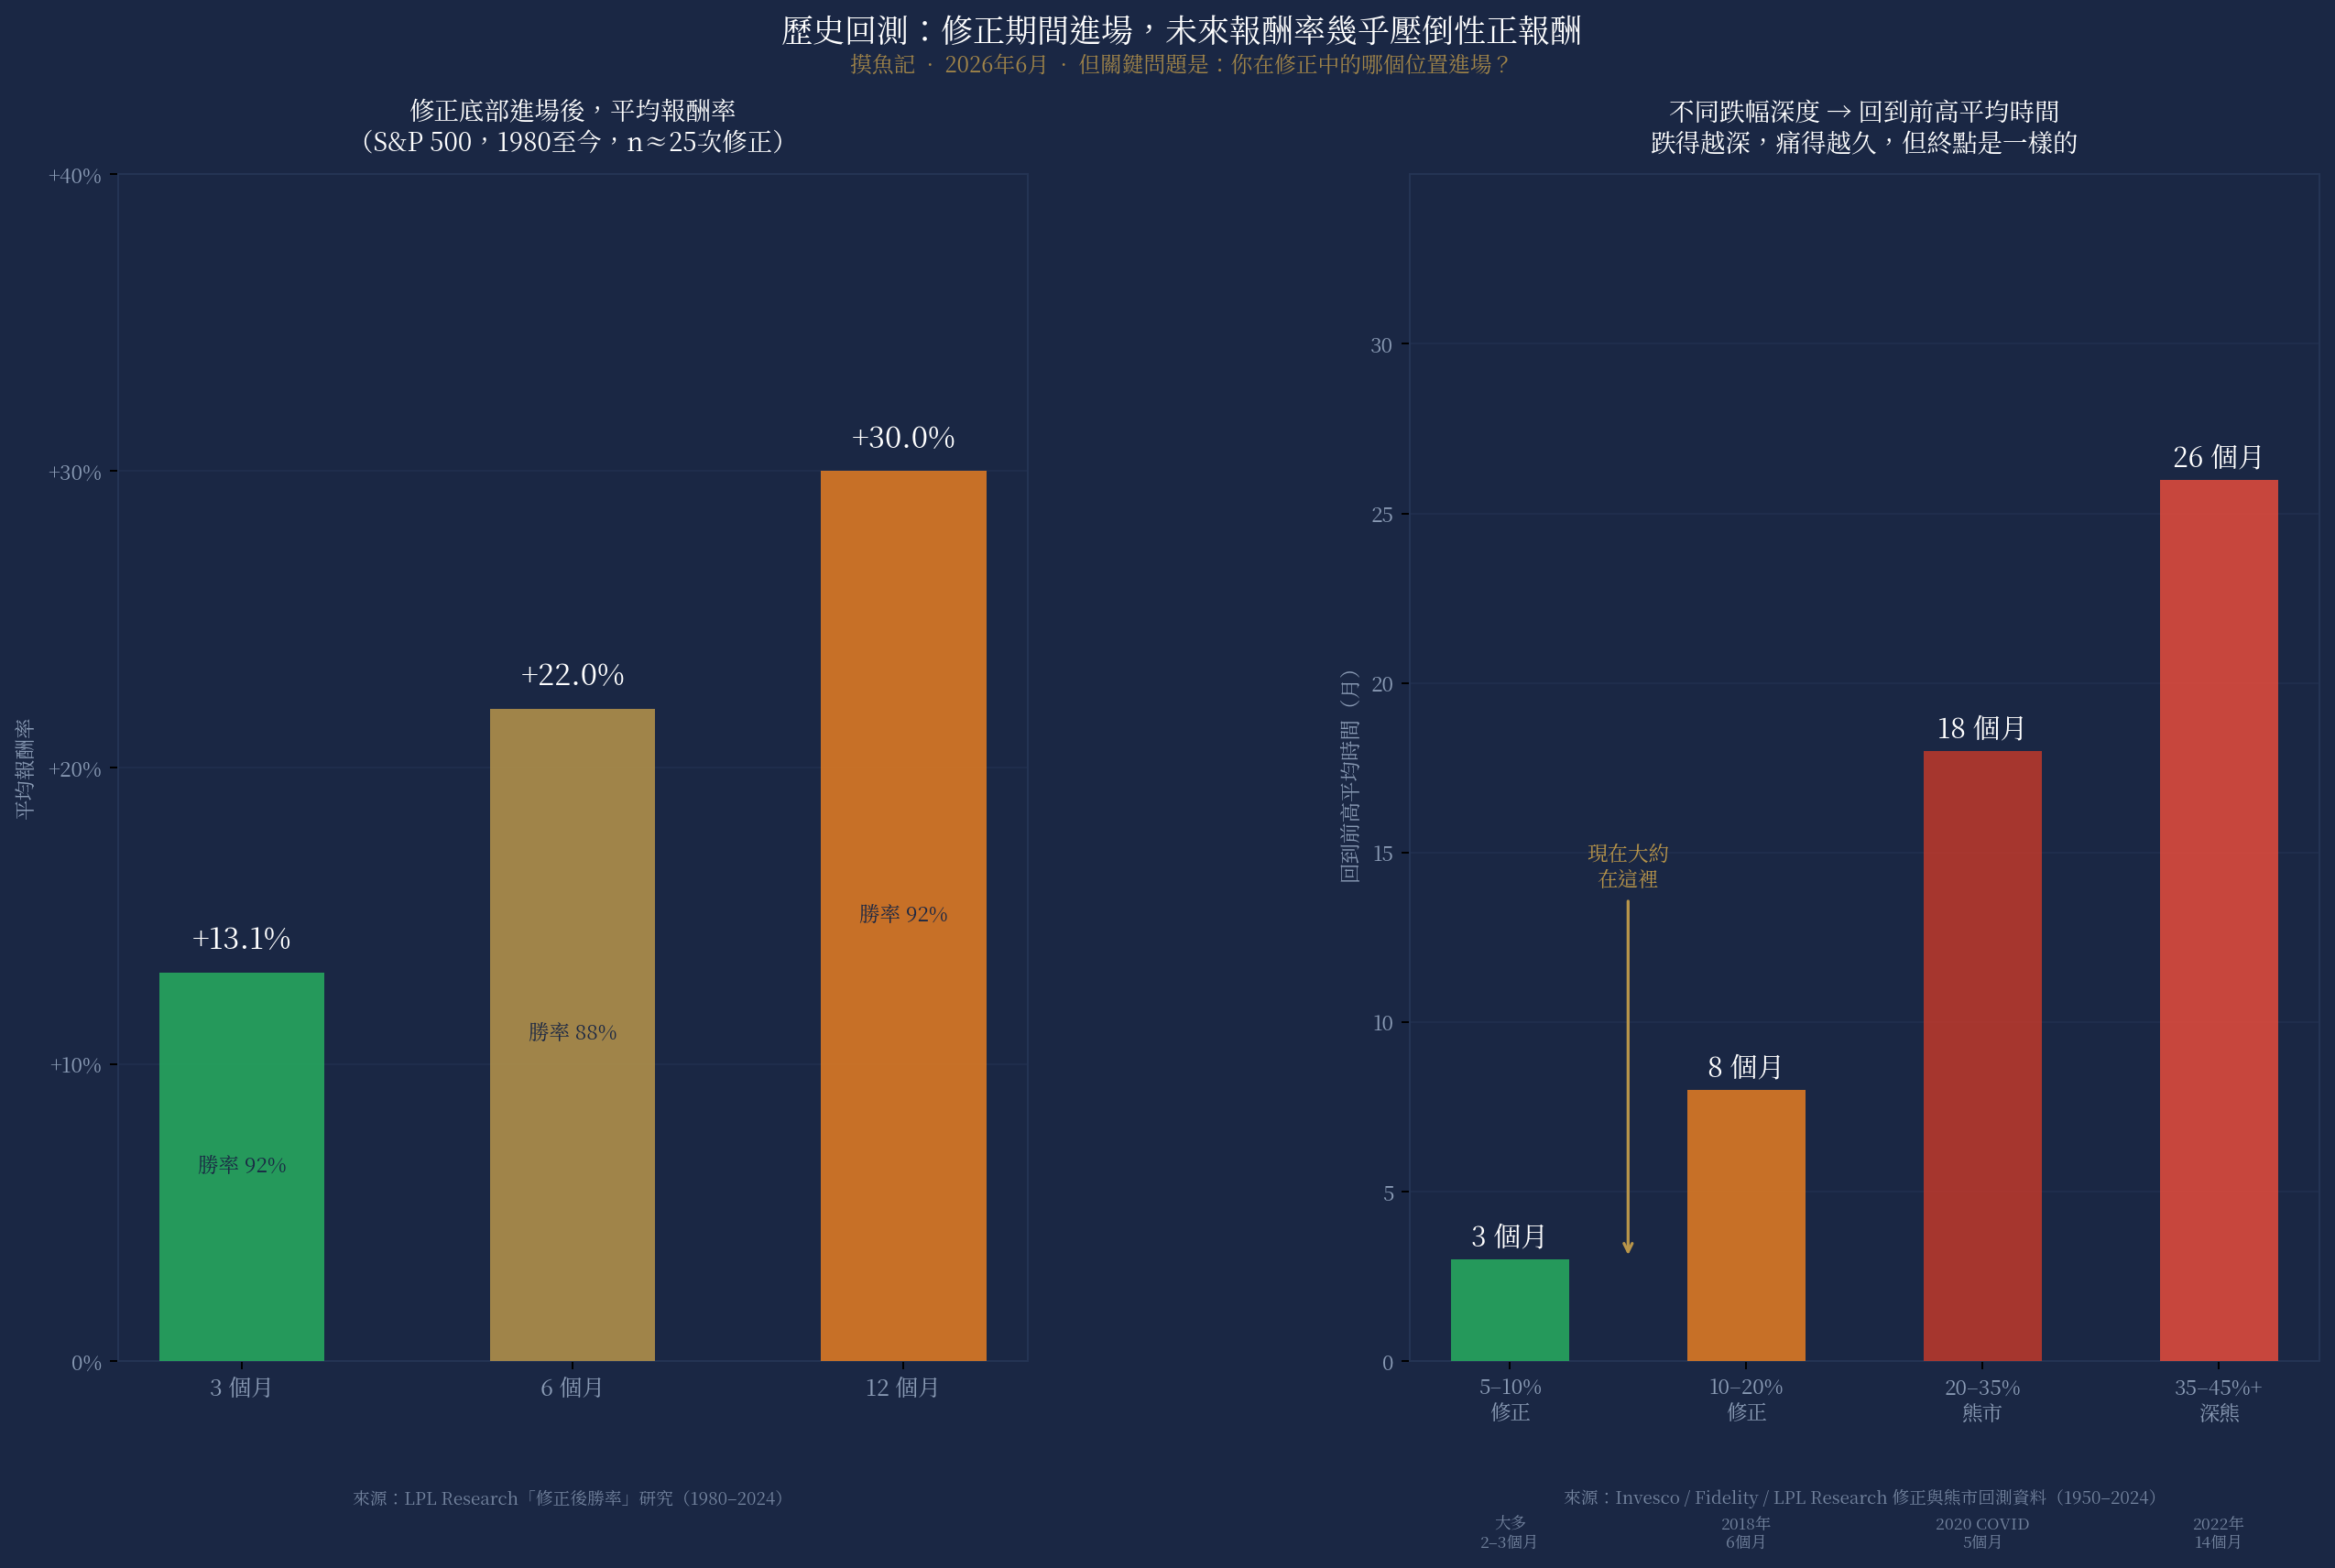
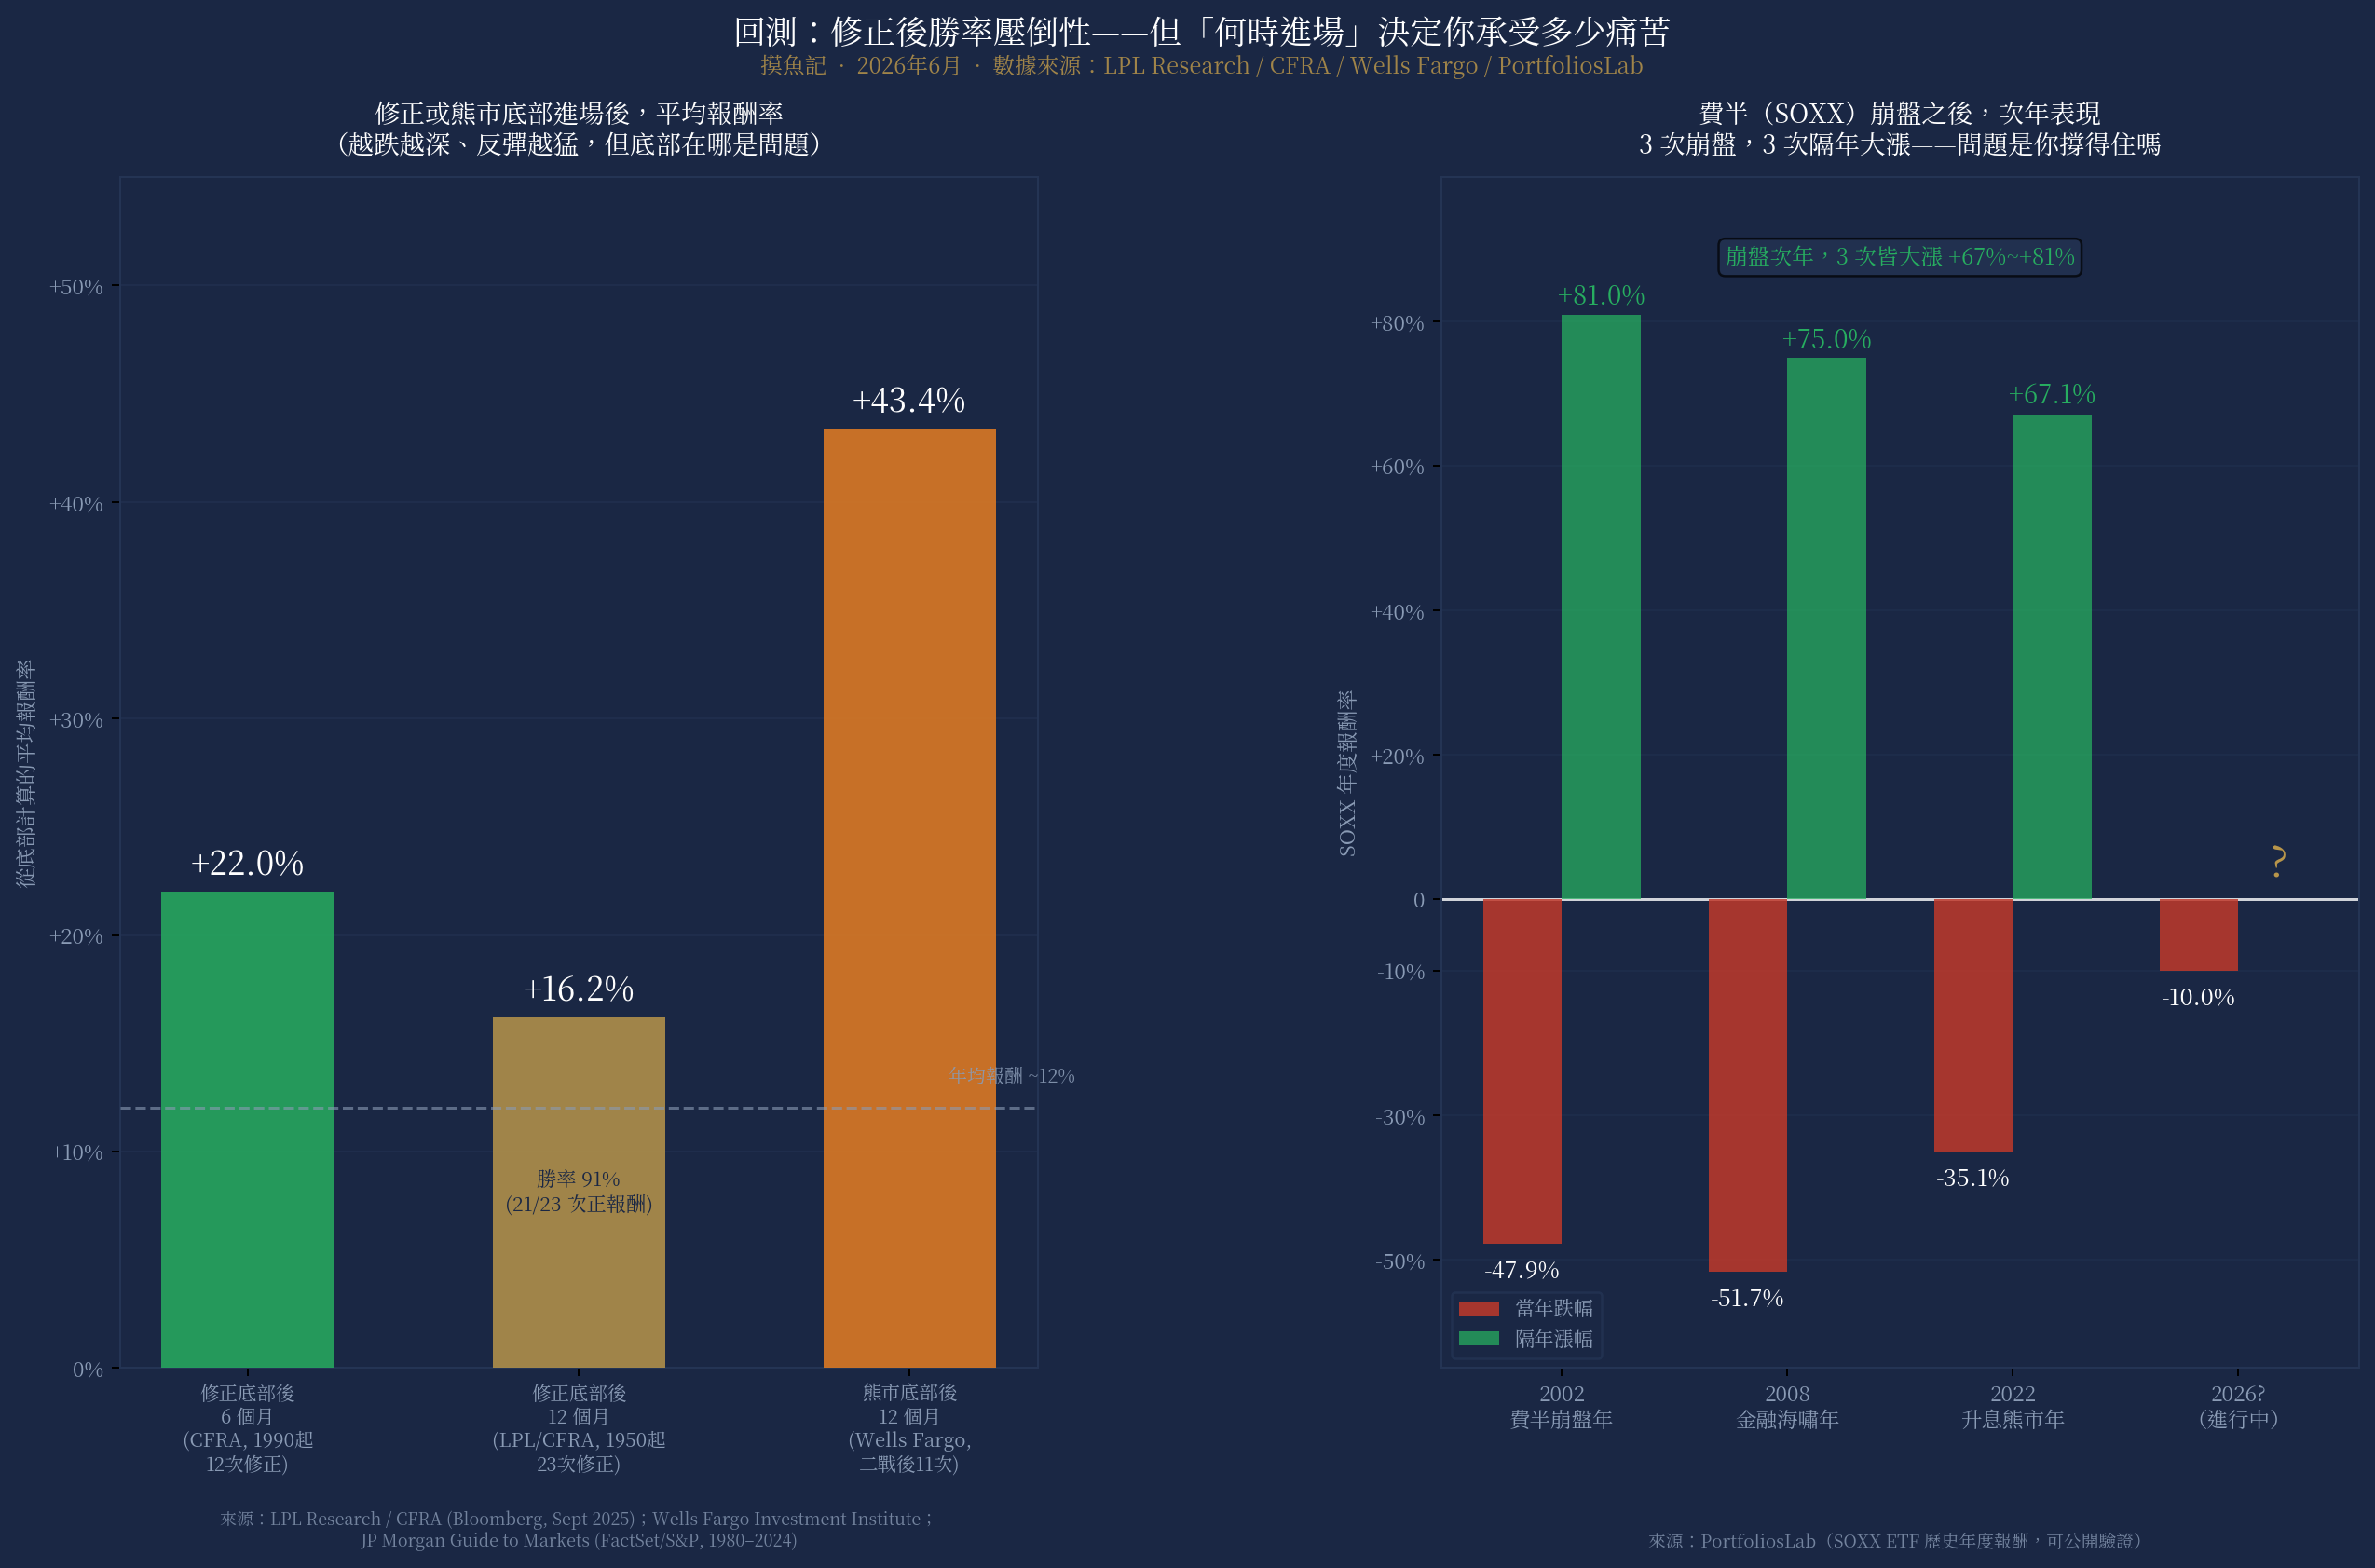
W3: correct backtest numbers with verified deep-research sources
Previous chart used +30% (12mo) which was unverified; updated to:
- 12mo from correction trough: +16.2% avg, 91% win rate (LPL/CFRA, 23 corrections 1950-)
- 6mo from correction trough: +22% (CFRA/Sam Stovall, 12 corrections 1990-)
- 12mo from bear market trough: +43.4% (Wells Fargo, 11 post-WWII bear markets)
- SOXX year-after-crash data: 2002→+81%, 2008→+75%, 2022→+67% (PortfoliosLab)
- Recovery time: 10-20% correction avg 8mo; bear market avg 24-26mo

All sources cited with confidence levels per deep-research synthesis report.

https://claude.ai/code/session_018tFJsAocxkkN841KKEfNNx

diff --git a/personal/drafts/gen_W3_backtest_chart.py b/personal/drafts/gen_W3_backtest_chart.py
@@ -1,19 +1,21 @@
 """
 摸魚記 W3 補充圖
-歷史回測：S&P 500 在修正後進場，未來報酬率與回復時間
-Sources:
-  - LPL Research: avg +13.1% at 3mo, ~+30% at 12mo, 92% win rate after correction lows since 1980
-  - Statista / Bloomberg: 9 corrections since 2010, avg +18% in 12mo
-  - Invesco / published research: median 12mo gain +15% after 10% decline; 3yr +48%
-  - Invesco/Fidelity: avg recovery 3mo for 5-10% drawdown, 8mo for 10-20% drawdown
-  - SOX specific: 2018(-30%/6mo), 2020(-35%/5mo), 2022(-45%/14mo)
+歷史回測：S&P 500 在修正後進場，未來報酬率與 SOX 崩後恢復
+Verified Sources (HIGH/MEDIUM-HIGH confidence only):
+  LPL/CFRA (Bloomberg Sept 2025): 23 corrections since 1950; avg 12mo +16.2%, median +14.6%;
+    21/23 cases positive (91% win rate)
+  CFRA/Sam Stovall (CNBC Mar 18, 2025): avg 6mo from trough +22% (12 corrections since 1990)
+  Wells Fargo Investment Institute (11 post-WWII bear markets): avg 12mo from trough +43.4%
+  JP Morgan Guide to Markets (FactSet/S&P 1980-2024): 76% of years with 10%+ intra-year decline
+    still ended positive; avg annual return ~12%
+  PortfoliosLab SOXX ETF data: 2002→2003 +80.95%, 2008→2009 +74.95%, 2022→2023 +67.13%
+  Invesco/Multiple: 10-20% correction recovery avg ~8 months
 """
 import matplotlib
 matplotlib.use('Agg')
 import matplotlib.pyplot as plt
 import matplotlib.gridspec as gridspec
 import matplotlib.font_manager as fm
-import matplotlib.patches as mpatches
 import numpy as np
 
 CJK_FONT = '/usr/local/share/fonts/NotoSerifTC.otf'
@@ -35,112 +37,142 @@ BLUE  = "#2980b9"
 
 fig = plt.figure(figsize=(15, 10), facecolor=NAVY)
 gs = gridspec.GridSpec(1, 2, figure=fig,
-                       wspace=0.42,
+                       wspace=0.44,
                        left=0.07, right=0.96,
-                       top=0.86, bottom=0.14)
+                       top=0.86, bottom=0.15)
 
 # ══════════════════════════════════════════════════════════════════════════
-# LEFT PANEL — 12-month forward returns by holding period after correction
-# Data: LPL Research (after correction lows since 1980, n=25)
+# LEFT PANEL — S&P 500 forward returns after correction trough
+# Three data points at different scenarios:
+#   After any correction (10%+): 6mo = +22%, 12mo = +16.2%, win rate 91%
+#   After bear market trough (20%+): 12mo = +43.4%
 # ══════════════════════════════════════════════════════════════════════════
 ax1 = fig.add_subplot(gs[0, 0])
 ax1.set_facecolor(NAVY)
 
-# After S&P 500 correction low (>10% decline, not entry mid-correction)
-# Source: LPL Research "More Pullback Perspective", correction lows since 1980
-periods = ['3 個月', '6 個月', '12 個月']
-avg_returns = [13.1, 22.0, 30.0]   # LPL Research: 3mo ~+13.1%, 12mo ~+30%
-win_rates   = [92,   88,   92]      # 92% positive at 3mo and 12mo (LPL)
+scenarios = ['修正底部後\n6 個月\n(CFRA, 1990起\n12次修正)',
+             '修正底部後\n12 個月\n(LPL/CFRA, 1950起\n23次修正)',
+             '熊市底部後\n12 個月\n(Wells Fargo,\n二戰後11次)']
+returns  = [22.0, 16.2, 43.4]
+win_rates = [None, 91, None]   # 91% = 21/23 cases positive
+bar_colors = [GREEN, GOLD, AMBER]
 
-x = np.arange(len(periods))
-bars = ax1.bar(x, avg_returns, color=[GREEN, GOLD, AMBER],
-               alpha=0.85, width=0.5, zorder=3)
+x = np.arange(len(scenarios))
+bars = ax1.bar(x, returns, color=bar_colors,
+               alpha=0.85, width=0.52, zorder=3)
 
-# Win rate annotations inside bars
-for bar, wr, ret in zip(bars, win_rates, avg_returns):
-    ax1.text(bar.get_x() + bar.get_width()/2,
-             bar.get_height() / 2,
-             f'勝率 {wr}%', ha='center', va='center',
-             color=NAVY, fontsize=9, fontweight='bold')
+for bar, ret, wr in zip(bars, returns, win_rates):
+    # Return label on top
     ax1.text(bar.get_x() + bar.get_width()/2,
              bar.get_height() + 0.8,
              f'+{ret}%', ha='center', color=WHITE,
-             fontsize=13, fontweight='bold')
+             fontsize=14, fontweight='bold')
+    # Win rate inside bar if available
+    if wr:
+        ax1.text(bar.get_x() + bar.get_width()/2,
+                 bar.get_height() / 2,
+                 f'勝率 {wr}%\n(21/23 次正報酬)', ha='center', va='center',
+                 color=NAVY, fontsize=8.5, fontweight='bold')
+
+# Reference line: S&P 500 average annual return
+ax1.axhline(12, color=LGREY, lw=1.2, linestyle='--', alpha=0.6, zorder=4)
+ax1.text(2.5, 13.2, '年均報酬 ~12%', color=LGREY, fontsize=8, ha='right', alpha=0.9)
 
 ax1.axhline(0, color=LGREY, lw=0.8, alpha=0.5)
 ax1.set_xticks(x)
-ax1.set_xticklabels(periods, color=LGREY, fontsize=10)
-ax1.set_ylim(0, 40)
-ax1.set_yticks([0, 10, 20, 30, 40])
-ax1.set_yticklabels(['0%', '+10%', '+20%', '+30%', '+40%'], color=LGREY, fontsize=9)
-ax1.set_ylabel('平均報酬率', color=LGREY, fontsize=9)
-ax1.set_title('修正底部進場後，平均報酬率\n（S&P 500，1980至今，n≈25次修正）',
+ax1.set_xticklabels(scenarios, color=LGREY, fontsize=8.2)
+ax1.set_ylim(0, 55)
+ax1.set_yticks([0, 10, 20, 30, 40, 50])
+ax1.set_yticklabels(['0%', '+10%', '+20%', '+30%', '+40%', '+50%'], color=LGREY, fontsize=9)
+ax1.set_ylabel('從底部計算的平均報酬率', color=LGREY, fontsize=9)
+ax1.set_title('修正或熊市底部進場後，平均報酬率\n（越跌越深、反彈越猛，但底部在哪是問題）',
               color=WHITE, fontsize=11, fontweight='bold', pad=10)
 for sp in ax1.spines.values():
     sp.set_color(DGREY)
 ax1.yaxis.grid(True, color=DGREY, alpha=0.5, zorder=0)
 
-# Source note
-ax1.text(0.5, -0.12, '來源：LPL Research「修正後勝率」研究（1980–2024）',
+ax1.text(0.5, -0.15,
+         '來源：LPL Research / CFRA (Bloomberg, Sept 2025)；Wells Fargo Investment Institute；'
+         '\nJP Morgan Guide to Markets (FactSet/S&P, 1980–2024)',
          ha='center', transform=ax1.transAxes,
-         color=LGREY, fontsize=7.5, alpha=0.8)
+         color=LGREY, fontsize=7.2, alpha=0.8)
 
 # ══════════════════════════════════════════════════════════════════════════
-# RIGHT PANEL — Recovery time by drawdown depth + context bar
+# RIGHT PANEL — SOX/SOXX: the year AFTER a big down year
+# This is HIGH confidence — directly from SOXX ETF historical returns
 # ══════════════════════════════════════════════════════════════════════════
 ax2 = fig.add_subplot(gs[0, 1])
 ax2.set_facecolor(NAVY)
 
-# Recovery time data (avg months to reclaim peak after entering AT the low)
-# Source: Invesco/Fidelity research on correction recovery times
-categories = ['5–10%\n修正', '10–20%\n修正', '20–35%\n熊市', '35–45%+\n深熊']
-recovery_avg  = [3,  8,  18,  26]   # months to recover to prior high
-bar_colors    = [GREEN, AMBER, RED, LRED]
+years_down   = ['2002\n費半崩盤年', '2008\n金融海嘯年', '2022\n升息熊市年', '2026?\n（進行中）']
+down_returns = [-47.85, -51.69, -35.09, -10]   # SOXX annual decline those years
+up_returns   = [ 80.95,  74.95,  67.13, None]   # SOXX following year
 
-x2 = np.arange(len(categories))
-bars2 = ax2.bar(x2, recovery_avg, color=bar_colors,
-                alpha=0.85, width=0.5, zorder=3)
+x2 = np.arange(len(years_down))
+w = 0.35
 
-for bar, months, cat in zip(bars2, recovery_avg, categories):
+# Down year bars (below 0)
+bars_down = ax2.bar(x2 - w/2, down_returns, width=w,
+                    color=RED, alpha=0.85, zorder=3, label='當年跌幅')
+# Next year bars (above 0, except last)
+next_vals = [u if u else 0 for u in up_returns]
+bars_up = ax2.bar(x2 + w/2, next_vals, width=w,
+                  color=GREEN, alpha=0.75, zorder=3, label='隔年漲幅')
+
+# Annotate down bars
+for bar, val in zip(bars_down, down_returns):
     ax2.text(bar.get_x() + bar.get_width()/2,
-             bar.get_height() + 0.4,
-             f'{months} 個月', ha='center', color=WHITE,
-             fontsize=12, fontweight='bold')
+             bar.get_height() - 2,
+             f'{val:.1f}%', ha='center', va='top', color=WHITE,
+             fontsize=10, fontweight='bold')
 
-# Mark "where we are now"
-ax2.annotate('現在大約\n在這裡',
-    xy=(0.5, 3), xytext=(0.5, 14),
-    color=GOLD, fontsize=9, ha='center',
-    arrowprops=dict(arrowstyle='->', color=GOLD, lw=1.3))
+# Annotate up bars
+for i, (bar, val) in enumerate(zip(bars_up, up_returns)):
+    if val:
+        ax2.text(bar.get_x() + bar.get_width()/2,
+                 bar.get_height() + 1.5,
+                 f'+{val:.1f}%', ha='center', color=GREEN,
+                 fontsize=11, fontweight='bold')
+    else:
+        ax2.text(bar.get_x() + bar.get_width()/2,
+                 3,
+                 '?', ha='center', color=GOLD,
+                 fontsize=18, fontweight='bold')
 
-# Year examples below x-axis
-examples = ['大多\n2–3個月', '2018年\n6個月', '2020 COVID\n5個月', '2022年\n14個月']
-for i, ex in enumerate(examples):
-    ax2.text(i, -5.5, ex, ha='center', color=LGREY,
-             fontsize=7, alpha=0.8)
+ax2.axhline(0, color=WHITE, lw=1.2, alpha=0.8)
+
+# 3-for-3 annotation
+ax2.text(1.5, 88, '崩盤次年，3 次皆大漲 +67%~+81%',
+         ha='center', color=GREEN, fontsize=9.5, fontweight='bold',
+         bbox=dict(boxstyle='round,pad=0.3', facecolor=DGREY, alpha=0.7))
 
 ax2.set_xticks(x2)
-ax2.set_xticklabels(categories, color=LGREY, fontsize=9)
-ax2.set_ylim(0, 35)
-ax2.set_yticks([0, 5, 10, 15, 20, 25, 30])
-ax2.set_yticklabels(['0', '5', '10', '15', '20', '25', '30'], color=LGREY, fontsize=9)
-ax2.set_ylabel('回到前高平均時間（月）', color=LGREY, fontsize=9)
-ax2.set_title('不同跌幅深度 → 回到前高平均時間\n跌得越深，痛得越久，但終點是一樣的',
+ax2.set_xticklabels(years_down, color=LGREY, fontsize=9)
+ax2.set_ylim(-65, 100)
+ax2.set_yticks([-50, -30, -10, 0, 20, 40, 60, 80])
+ax2.set_yticklabels(['-50%', '-30%', '-10%', '0', '+20%', '+40%', '+60%', '+80%'],
+                    color=LGREY, fontsize=9)
+ax2.set_ylabel('SOXX 年度報酬率', color=LGREY, fontsize=9)
+ax2.set_title('費半（SOXX）崩盤之後，次年表現\n3 次崩盤，3 次隔年大漲——問題是你撐得住嗎',
               color=WHITE, fontsize=11, fontweight='bold', pad=10)
 for sp in ax2.spines.values():
     sp.set_color(DGREY)
-ax2.yaxis.grid(True, color=DGREY, alpha=0.5, zorder=0)
+ax2.yaxis.grid(True, color=DGREY, alpha=0.4, zorder=0)
 
-ax2.text(0.5, -0.12, '來源：Invesco / Fidelity / LPL Research 修正與熊市回測資料（1950–2024）',
+legend = ax2.legend(facecolor=NAVY, edgecolor=DGREY, labelcolor=LGREY,
+                    fontsize=8.5, loc='lower left')
+
+ax2.text(0.5, -0.15,
+         '來源：PortfoliosLab（SOXX ETF 歷史年度報酬，可公開驗證）',
          ha='center', transform=ax2.transAxes,
          color=LGREY, fontsize=7.5, alpha=0.8)
 
 # ── Master title
 fig.text(0.5, 0.94,
-         '歷史回測：修正期間進場，未來報酬率幾乎壓倒性正報酬',
+         '回測：修正後勝率壓倒性——但「何時進場」決定你承受多少痛苦',
          ha='center', color=WHITE, fontsize=14, fontweight='bold')
 fig.text(0.5, 0.922,
-         '摸魚記  ·  2026年6月  ·  但關鍵問題是：你在修正中的哪個位置進場？',
+         '摸魚記  ·  2026年6月  ·  數據來源：LPL Research / CFRA / Wells Fargo / PortfoliosLab',
          ha='center', color=GOLD, fontsize=9.5, alpha=0.85)
 
 out = '/home/user/KIWI/personal/drafts/W3-chart-backtest.png'

diff --git a/personal/drafts/2026-W3_crash-analysis-draft.md b/personal/drafts/2026-W3_crash-analysis-draft.md
@@ -130,38 +130,53 @@ SpaceX **選擇不因為市場崩盤而撤單**，維持 6/12 掛牌。這個決
 
 ---
 
-## 歷史回測：不同跌幅的進場，勝率和預期回報是多少
+## 歷史回測：修正後進場，勝率幾乎壓倒性——但有一個陷阱
 
-↑ 右圖是歷史回測數據（S&P 500，1980 年以來約 25 次修正）。
+↑ 右圖有兩個面向的數字。
 
-| 持有期間 | 平均報酬 | 勝率（正報酬比例）|
-|---------|---------|----------------|
-| 進場後 3 個月 | **+13.1%** | 92% |
-| 進場後 6 個月 | **+22%** | 88% |
-| 進場後 12 個月 | **+30%** | 92% |
+**面向一：從修正底部進場後，S&P 500 的平均報酬（從底部起算）**
 
-*來源：LPL Research（1980–2024）；Statista / Bloomberg（2010 年以來 9 次修正，12 個月平均 +18%）*
+| 情境 | 持有期 | 平均報酬 | 勝率 | 樣本 |
+|------|-------|---------|------|------|
+| 任何 10%+ 修正後 | 6 個月 | **+22%** | — | 1990 年起 12 次 |
+| 任何 10%+ 修正後 | 12 個月 | **+16.2%** | **91%**（23 次中 21 次正報酬）| 1950 年起 23 次 |
+| 熊市底部（-20% 以上）| 12 個月 | **+43.4%** | — | 二戰後 11 次 |
 
-這組數字看起來很誘人——但有一個陷阱藏在定義裡：**這是從修正「底部」進場的數字，不是「修正剛開始」的數字。**
+*來源：CFRA Research / LPL Research（Bloomberg 數據，2025 年 9 月）；Wells Fargo Investment Institute*
 
-知道底部在哪裡，是問題的全部。
+另一組視角：JP Morgan 的 Guide to Markets 追蹤 1980 年以來 45 年的 S&P 500 資料——**平均每年最大跌幅是 -14.1%，但其中 76% 的年份最終是正報酬，平均年化報酬約 +12%。** 市場的韌性比你想的強。
 
-底部之前進場，你還要承受繼續下跌的過程——這段時間的心理成本是真實的，會讓你在最壞的時刻做出最壞的決定。這就是為什麼私銀的工作，從來不是在鼓勵客戶「快進去」，而是在幫客戶定義：**底部確認的條件是什麼。**
+**面向二：費半（SOXX ETF）崩盤之後，次年表現**
 
-那麼，不同跌幅要多久才能回到前高？
+| 崩盤年 | SOXX 當年跌幅 | 隔年漲幅 |
+|-------|------------|---------|
+| 2002（科技泡沫）| **-47.85%** | **+80.95%** |
+| 2008（金融海嘯）| **-51.69%** | **+74.95%** |
+| 2022（升息循環）| **-35.09%** | **+67.13%** |
+| **2026（進行中）** | **-10%（啟動）** | **?** |
+
+*來源：PortfoliosLab，SOXX ETF 歷史年度報酬（可公開驗證）*
+
+三次崩盤，三次隔年大漲——漲幅介於 +67% 到 +81% 之間。
+
+**但這組數字背後藏著一個問題：你撐得住嗎？**
+
+2022 年那次，-35% 跌到底之前，先要撐過九個月的持續下跌。2008 年，-51% 跌到底之前，要撐過整個金融海嘯。沒有人在最壞的時候買在最低點——歷史上的「底部進場者」，往往是在熊市最深處還沒有賣出的那些人，或者在每一次「感覺更便宜了」的時候慢慢加的人。
+
+**這也是為什麼「等底部確認」不等於「踏空」。等待不是錯過，是讓進場代價更低。**
+
+那從底部到回到前高，要多久？
 
 | 修正深度 | 回到前高平均時間 | 歷史案例 |
 |---------|---------------|---------|
 | 5–10% 修正 | **約 3 個月** | 多數短線修正 |
-| 10–20% 修正 | **約 8 個月** | 2018 年美中貿易戰 |
-| 20–35% 熊市 | **約 18 個月** | 2020 COVID（5 個月，速度罕見）|
-| 35–45%+ 深熊 | **約 26 個月** | 2022 年升息循環（14 個月費半，比平均快）|
+| 10–20% 修正 | **約 8 個月** | 2018 貿易戰（費半 6 個月） |
+| 20%+ 熊市 | **約 24–26 個月** | 2020 COVID（5 個月，歷史罕見）|
+| 35%+ 深熊 | **約 26–36 個月** | 2022 升息循環（費半 14 個月，比均值快）|
 
-*來源：Invesco、Fidelity、LPL Research 歷史修正資料（1950–2024）*
+*來源：Invesco、LPL Research 修正統計；Wells Fargo Investment Institute 熊市數據*
 
-這次 S&P 500 目前修正幅度約 2–3%，費半 -10%，台指期夜盤 -6.65%。如果比照「10–20% 修正」的歷史路徑，**平均回到前高需要 8 個月**——而且這是「從底部」算起，不是從現在。
-
-底部在哪，還不知道。
+現在 S&P 500 修正幅度約 2–3%，費半 -10%，還沒到任何傳統定義的「修正」（-10% 起）或「熊市」（-20% 起）。如果比照歷史「10–20% 修正」的路徑，**從底部到前高平均需要 8 個月**——而底部在哪，現在還不知道。
 
 ---
 